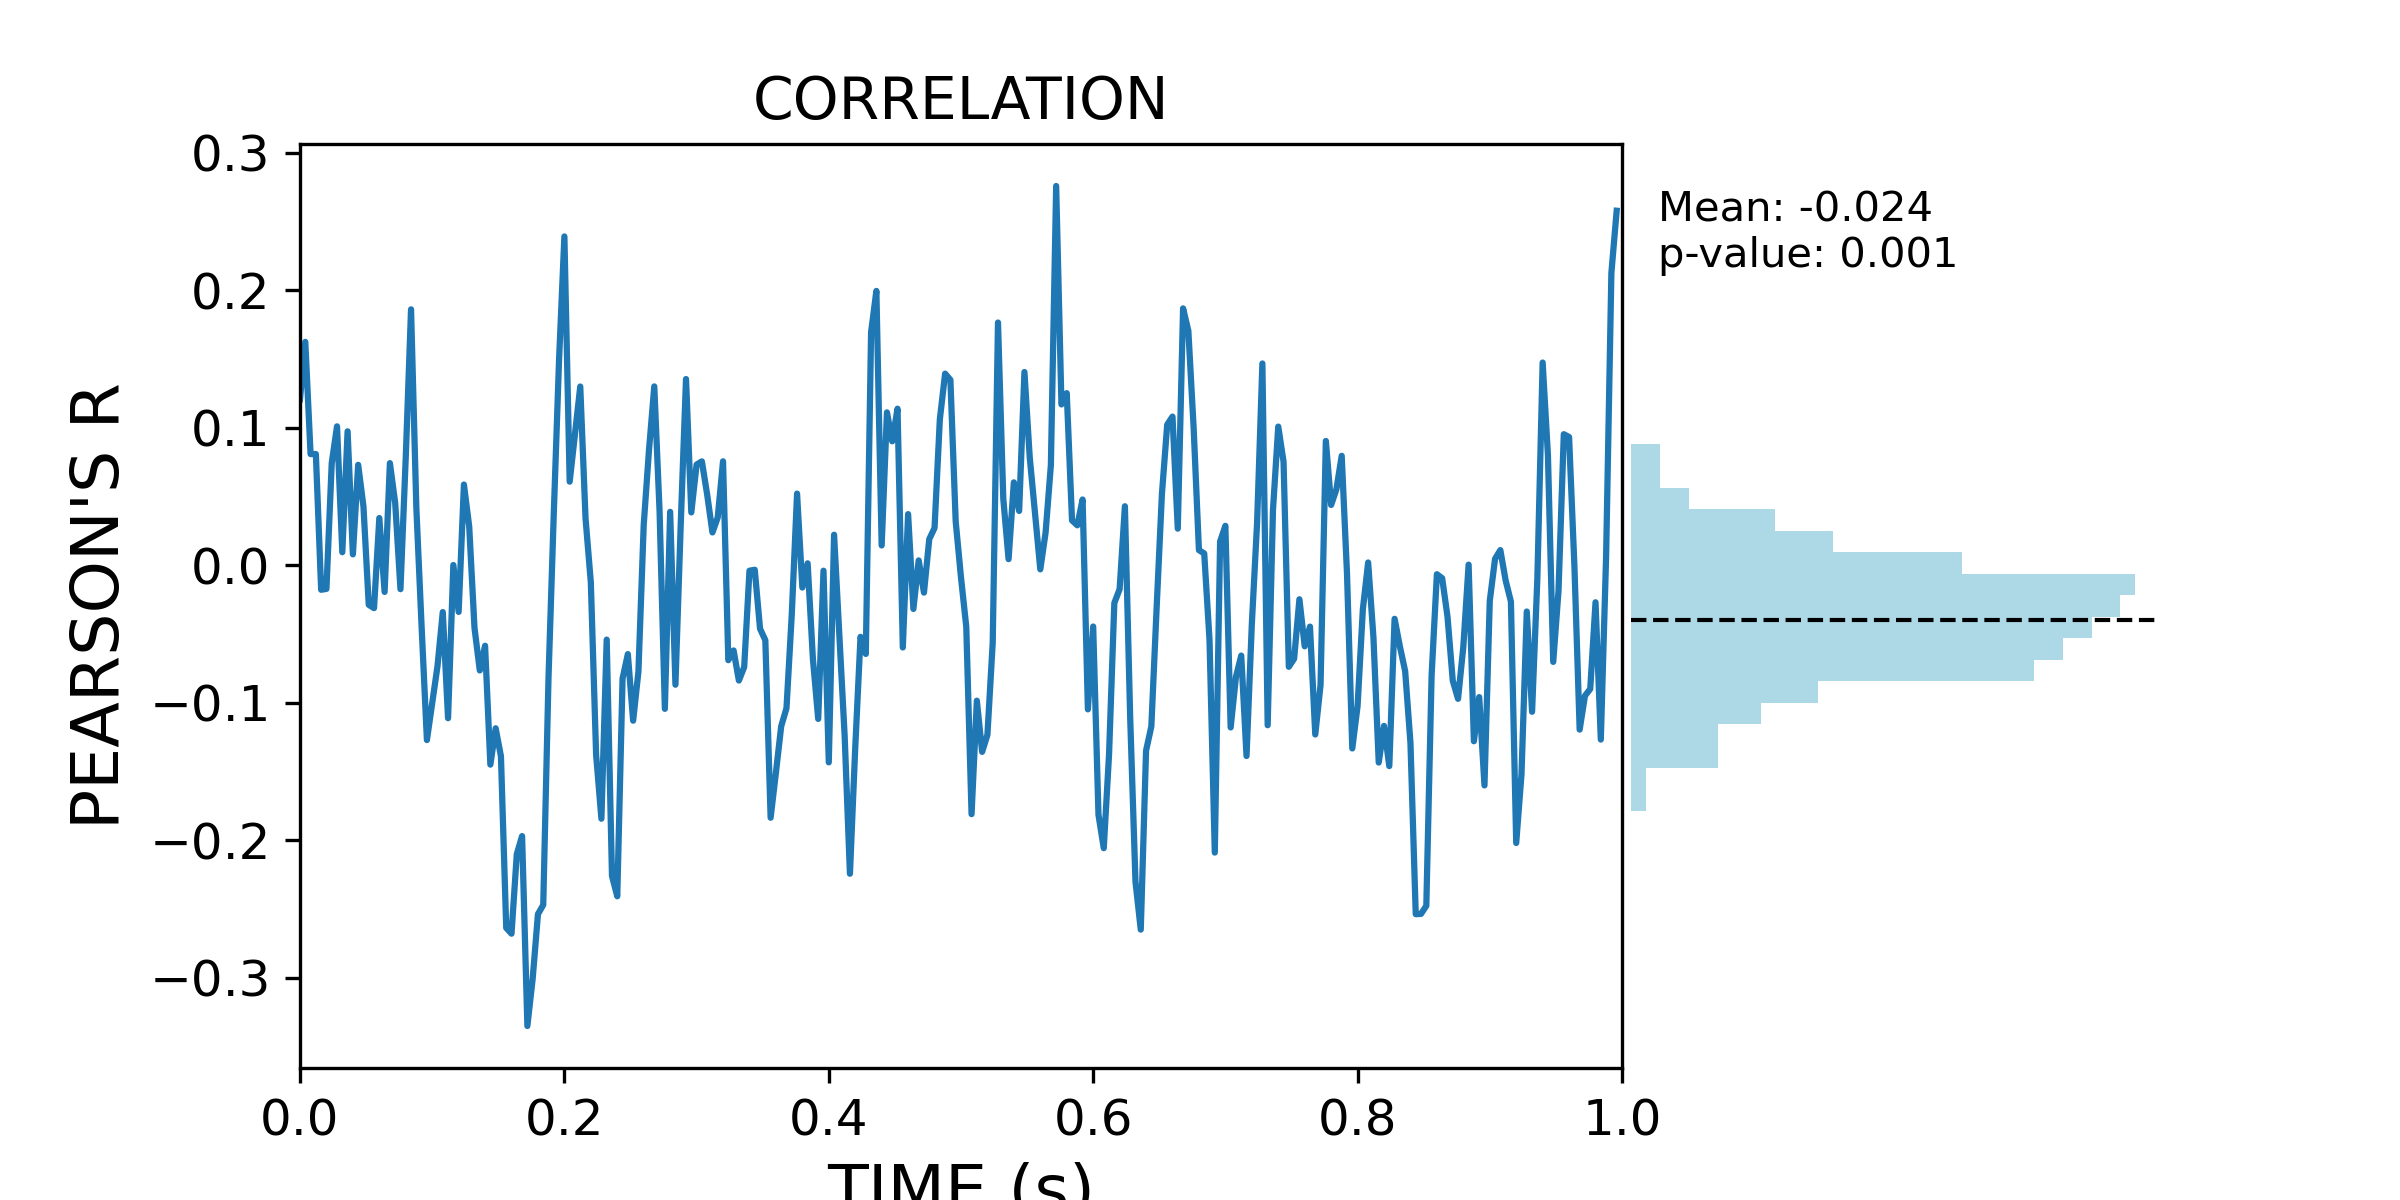
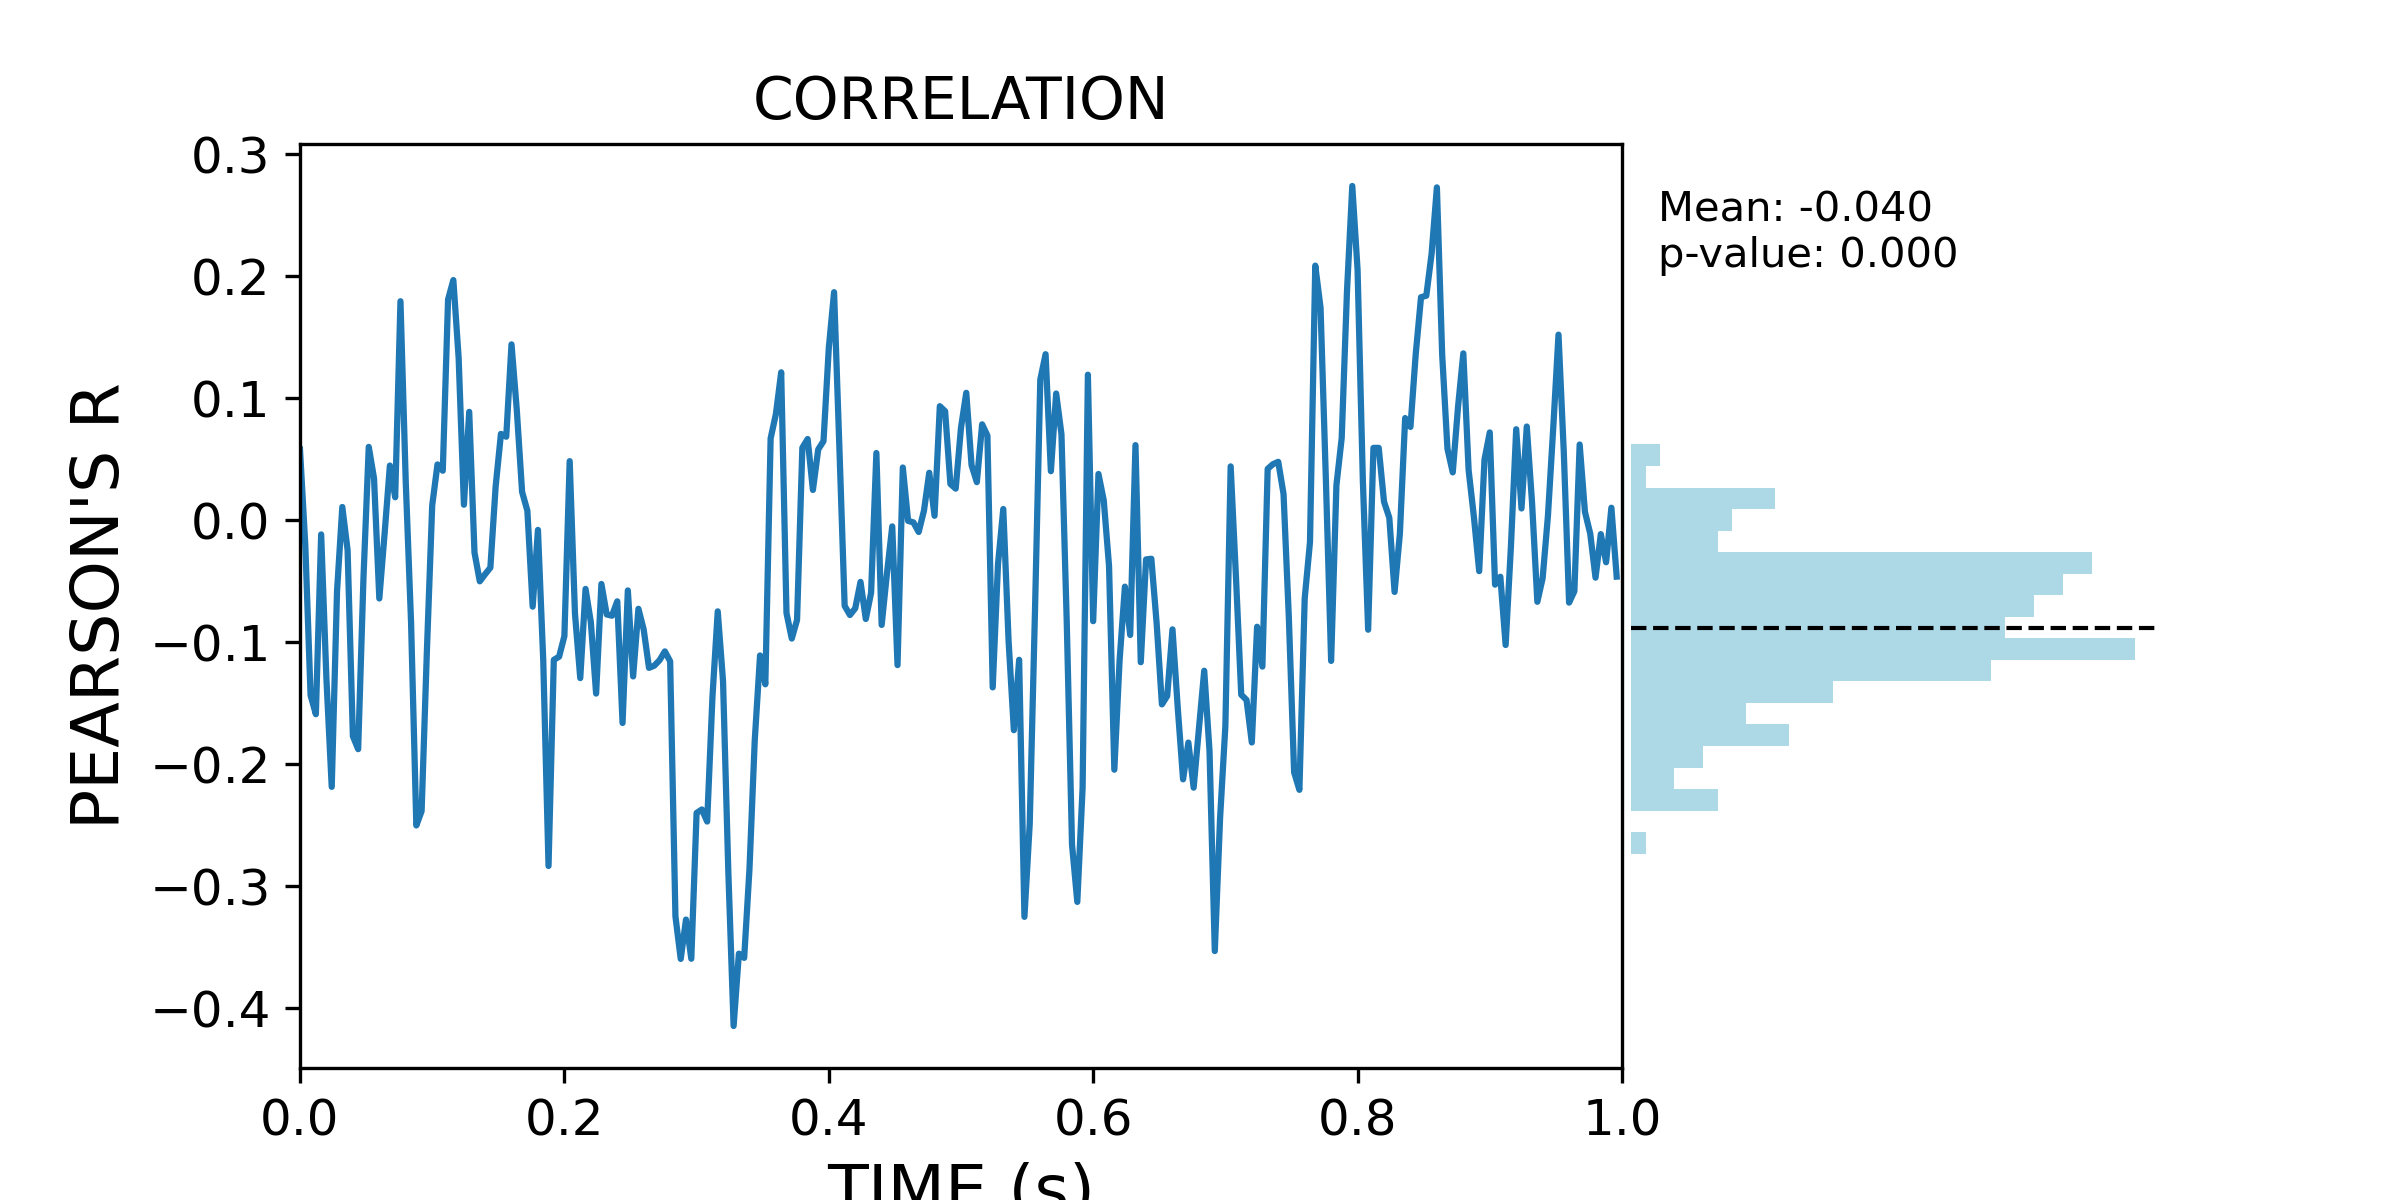
fix issue with distance in condition

diff --git a/decoding/cross_decoding/dist_acc_corr.py b/decoding/cross_decoding/dist_acc_corr.py
@@ -67,6 +67,9 @@ def prep_x_y(acc, dist):
             if dist[i,j] != 0: # do not include within session decoding
                 X.append(np.diag(acc[i, j, :, :]))
                 y.append(dist[i, j])
+
+    # min max normalize y between 0 and 1
+    #y = (y - np.min(y)) / (np.max(y) - np.min(y))
     
     return X, y
 
@@ -81,6 +84,8 @@ def prep_x_y_cond(acc, dist):
                 X.append(np.diag(acc[i, j, :, :]))
                 y.append(dist[i, j])
     
+    # min max normalize y between 0 and 1
+    #y = (y - np.min(y)) / (np.max(y) - np.min(y))
     return X, y
 
 def get_corr_pval(X, y):
@@ -199,7 +204,7 @@ def plot_corr_hist(acc, save_path = None):
 def plot_corr_hist_cond(acc, save_path = None):
 
     # prep x and y
-    dist = get_distance_matrix([0, 0, 0, 0, 1, 1, 1, 1, 0, 0, 0])
+    dist = get_distance_matrix([0, 0, 0, 0, 0, 0, 0, 1, 1, 1, 1])
 
     # get x and y
     X, y = prep_x_y_cond(acc, dist)
